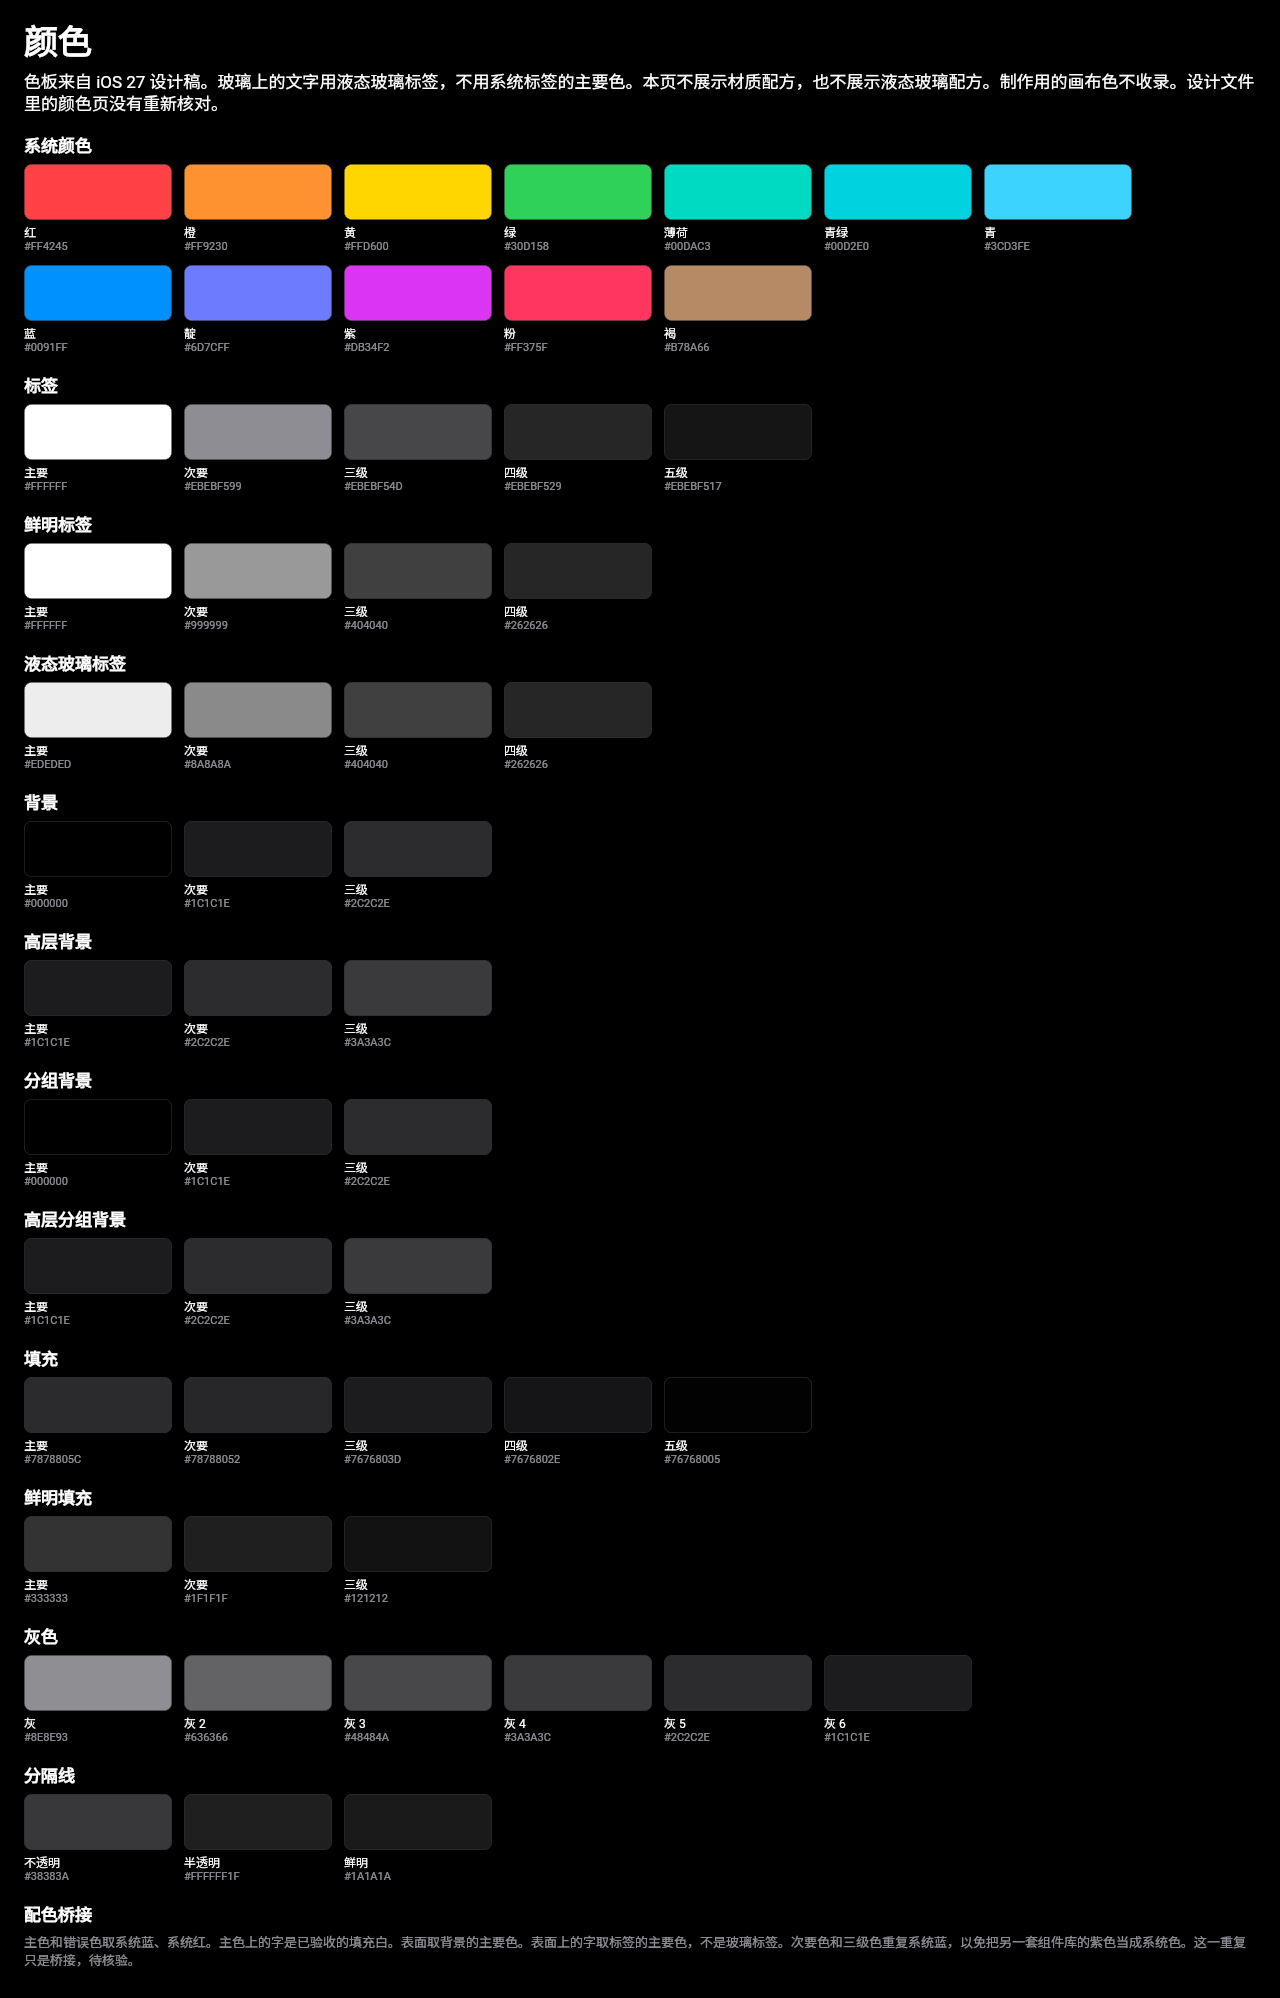
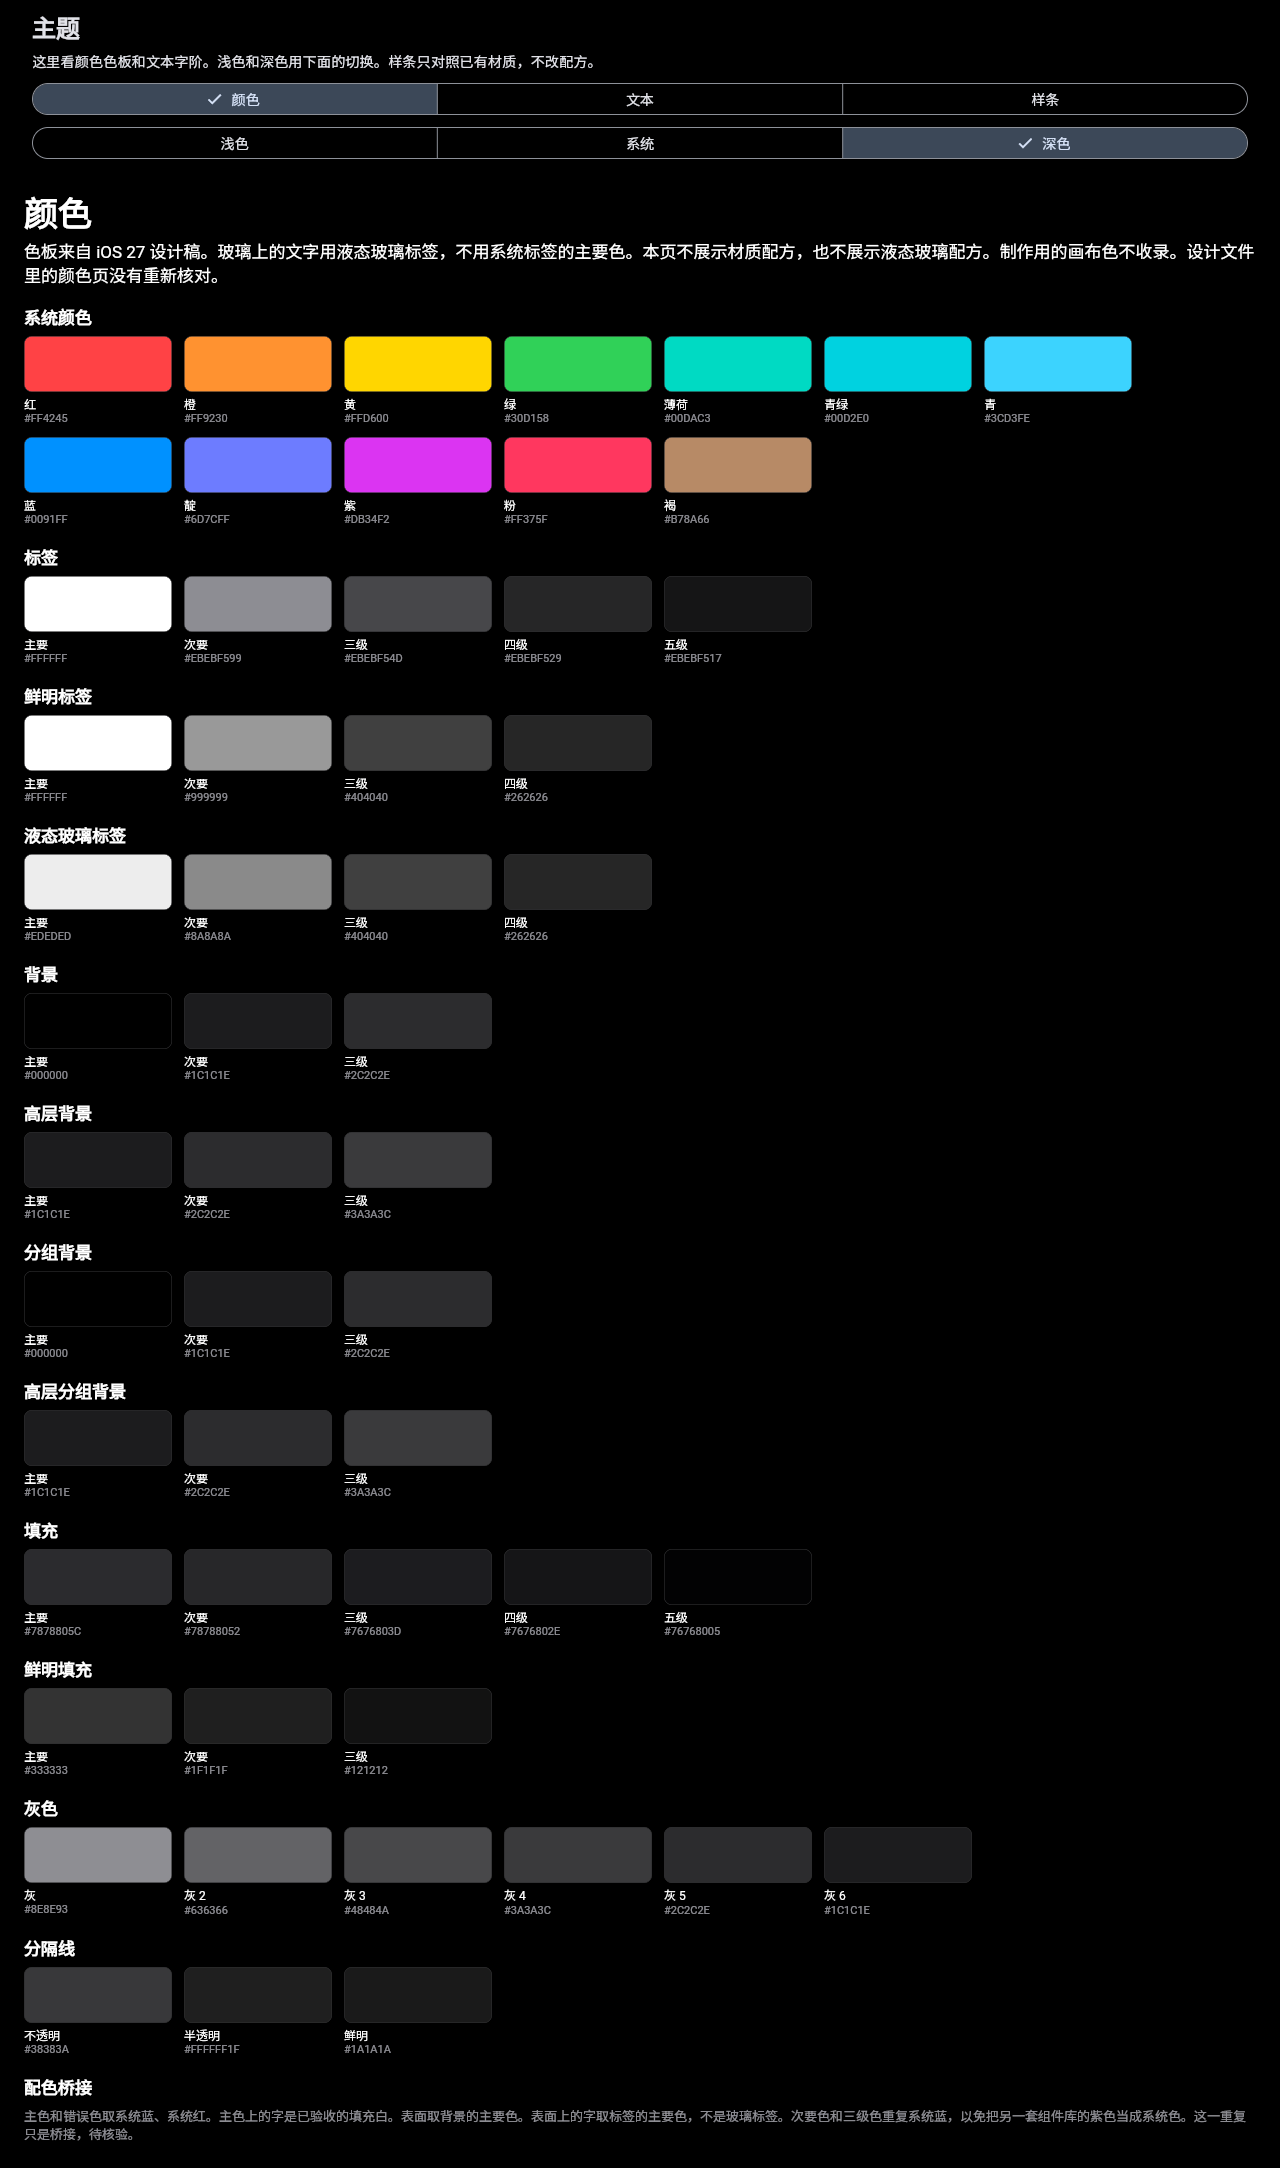
Show color swatches and text styles from the Themes page.
The main example nav item is 主题. It opens the Chinese color grid
by default, and the Large text specimens from the 文本 segment.
Light and dark stay on that page. Token values are unchanged.

Changed region(s): [[0.0, 0.0, 0.9688, 0.993], [0.5, 0.7137, 0.5625, 0.7758]]

diff --git a/example/lib/pages/themes_page.dart b/example/lib/pages/themes_page.dart
@@ -1,69 +1,128 @@
 import 'package:material_ui/material_ui.dart';
 import 'package:lingyun_ui_flutter/lingyun_ui_flutter.dart';
 
-class ThemesPage extends StatelessWidget {
+import 'colors_page.dart';
+import 'text_styles_page.dart';
+
+/// Which specimen the Themes gallery is showing.
+enum ThemesPanel { colors, text, samples }
+
+/// Main-gallery Themes page.
+///
+/// The color swatches and Large text specimens are the default content.
+/// Light / dark uses the gallery [ThemeMode]. The sample strip keeps the
+/// existing Materials and Glass widgets; only its labels change.
+class ThemesPage extends StatefulWidget {
   const ThemesPage({
     super.key,
     required this.themeMode,
     required this.onThemeModeChanged,
+    this.initialPanel = ThemesPanel.colors,
   });
 
   final ThemeMode themeMode;
   final ValueChanged<ThemeMode> onThemeModeChanged;
+  final ThemesPanel initialPanel;
+
+  @override
+  State<ThemesPage> createState() => _ThemesPageState();
+}
+
+class _ThemesPageState extends State<ThemesPage> {
+  late ThemesPanel _panel = widget.initialPanel;
+
+  @override
+  void didUpdateWidget(ThemesPage oldWidget) {
+    super.didUpdateWidget(oldWidget);
+    if (oldWidget.initialPanel != widget.initialPanel) {
+      _panel = widget.initialPanel;
+    }
+  }
 
   @override
   Widget build(BuildContext context) {
     final isDark = Theme.of(context).brightness == Brightness.dark;
     final textTheme = Theme.of(context).textTheme;
-    return ListView(
-      padding: LingyunLayout.layoutMarginOf(context),
+    final margin = LingyunLayout.layoutMarginOf(context);
+    return Column(
+      crossAxisAlignment: CrossAxisAlignment.stretch,
       children: [
-        Text(
-          'Themes',
-          key: const Key('themes-title'),
-          style: textTheme.headlineSmall?.copyWith(fontWeight: FontWeight.w800),
-        ),
-        const SizedBox(height: 8),
-        Text(
-          'Light and dark recipes for both systems. Materials fills and '
-          'Liquid Glass styles each have Light / Dark. Same APIs on every platform.',
-          style: textTheme.bodyMedium,
-        ),
-        const SizedBox(height: 20),
-        GlassCard(
+        Padding(
+          padding: margin.copyWith(bottom: 8),
           child: Column(
+            crossAxisAlignment: CrossAxisAlignment.stretch,
             children: [
-              SwitchListTile(
-                contentPadding: EdgeInsets.zero,
-                title: const Text('Dark mode'),
-                subtitle: Text(isDark ? 'Dark tokens' : 'Light tokens'),
-                value: isDark,
-                onChanged: (v) =>
-                    onThemeModeChanged(v ? ThemeMode.dark : ThemeMode.light),
+              Text(
+                '主题',
+                key: const Key('themes-title'),
+                style: textTheme.headlineSmall?.copyWith(
+                  fontWeight: FontWeight.w800,
+                ),
               ),
-              SegmentedButton<ThemeMode>(
+              const SizedBox(height: 8),
+              Text(
+                '这里看颜色色板和文本字阶。浅色和深色用下面的切换。样条只对照已有材质，不改配方。',
+                style: textTheme.bodyMedium,
+              ),
+              const SizedBox(height: 12),
+              SegmentedButton<ThemesPanel>(
                 segments: const [
-                  ButtonSegment(value: ThemeMode.light, label: Text('Light')),
-                  ButtonSegment(value: ThemeMode.system, label: Text('System')),
-                  ButtonSegment(value: ThemeMode.dark, label: Text('Dark')),
+                  ButtonSegment(value: ThemesPanel.colors, label: Text('颜色')),
+                  ButtonSegment(value: ThemesPanel.text, label: Text('文本')),
+                  ButtonSegment(value: ThemesPanel.samples, label: Text('样条')),
                 ],
-                selected: {themeMode},
-                onSelectionChanged: (set) => onThemeModeChanged(set.first),
+                selected: {_panel},
+                onSelectionChanged: (set) => setState(() => _panel = set.first),
+              ),
+              const SizedBox(height: 12),
+              SegmentedButton<ThemeMode>(
+                key: const Key('themes-brightness'),
+                segments: const [
+                  ButtonSegment(value: ThemeMode.light, label: Text('浅色')),
+                  ButtonSegment(value: ThemeMode.system, label: Text('系统')),
+                  ButtonSegment(value: ThemeMode.dark, label: Text('深色')),
+                ],
+                selected: {widget.themeMode},
+                onSelectionChanged: (set) =>
+                    widget.onThemeModeChanged(set.first),
               ),
             ],
           ),
         ),
-        const SizedBox(height: 16),
+        Expanded(
+          child: LingyunTheme(
+            brightness: isDark ? Brightness.dark : Brightness.light,
+            child: switch (_panel) {
+              ThemesPanel.colors => const ColorsPage(),
+              ThemesPanel.text => const TextStylesPage(),
+              ThemesPanel.samples => _SampleStrip(isDark: isDark),
+            },
+          ),
+        ),
+      ],
+    );
+  }
+}
+
+class _SampleStrip extends StatelessWidget {
+  const _SampleStrip({required this.isDark});
+
+  final bool isDark;
+
+  @override
+  Widget build(BuildContext context) {
+    final textTheme = Theme.of(context).textTheme;
+    final tone = isDark ? '深色' : '浅色';
+    return ListView(
+      padding: LingyunLayout.layoutMarginOf(context),
+      children: [
         Row(
           children: [
             Expanded(
               child: GlassSurface(
                 material: MaterialTier.thin,
                 padding: const EdgeInsets.all(16),
-                child: Text(
-                  isDark ? 'Dark · Materials Thin' : 'Light · Materials Thin',
-                  style: textTheme.titleMedium,
-                ),
+                child: Text('$tone · 薄材质', style: textTheme.titleMedium),
               ),
             ),
             const SizedBox(width: 12),
@@ -71,10 +130,7 @@ class ThemesPage extends StatelessWidget {
               child: GlassSurface(
                 material: MaterialTier.thick,
                 padding: const EdgeInsets.all(16),
-                child: Text(
-                  isDark ? 'Dark · Materials Thick' : 'Light · Materials Thick',
-                  style: textTheme.titleMedium,
-                ),
+                child: Text('$tone · 厚材质', style: textTheme.titleMedium),
               ),
             ),
           ],
@@ -82,10 +138,7 @@ class ThemesPage extends StatelessWidget {
         const SizedBox(height: 16),
         Align(
           alignment: Alignment.centerLeft,
-          child: GlassButton.label(
-            label: isDark ? 'Dark · Regular Small' : 'Light · Regular Small',
-            onPressed: () {},
-          ),
+          child: GlassButton.label(label: '$tone · 常规小号', onPressed: () {}),
         ),
       ],
     );

diff --git a/example/lib/main.dart b/example/lib/main.dart
@@ -28,6 +28,7 @@ class _LingyunGlassDemoAppState extends State<LingyunGlassDemoApp> {
   bool _reduceMotion = false;
   bool _highContrast = false;
   int _index = 0;
+  ThemesPanel _themesPanel = ThemesPanel.colors;
   bool _bare = false;
   GalleryBackground _background = GalleryBackground.canvas;
 
@@ -40,12 +41,18 @@ class _LingyunGlassDemoAppState extends State<LingyunGlassDemoApp> {
     _index = switch (page) {
       'glass' => 1,
       'tabs' => 2,
-      'themes' => 3,
+      'themes' || 'colors' || 'text' => 3,
       'layout' => 4,
       'access' => 5,
       'native' => 6,
       'alerts' => 7,
       _ => 0,
+    };
+    final panel = page == 'text' ? 'text' : Uri.base.queryParameters['panel'];
+    _themesPanel = switch (panel) {
+      'text' => ThemesPanel.text,
+      'samples' => ThemesPanel.samples,
+      _ => ThemesPanel.colors,
     };
     _themeMode = switch (Uri.base.queryParameters['theme']) {
       'dark' => ThemeMode.dark,
@@ -80,6 +87,7 @@ class _LingyunGlassDemoAppState extends State<LingyunGlassDemoApp> {
           highContrast: _highContrast,
           child: DemoHome(
             index: _index,
+            themesPanel: _themesPanel,
             bare: _bare,
             background: _background,
             themeMode: _themeMode,
@@ -104,6 +112,7 @@ class DemoHome extends StatelessWidget {
   const DemoHome({
     super.key,
     required this.index,
+    required this.themesPanel,
     required this.bare,
     required this.background,
     required this.themeMode,
@@ -119,6 +128,7 @@ class DemoHome extends StatelessWidget {
   });
 
   final int index;
+  final ThemesPanel themesPanel;
   final bool bare;
   final GalleryBackground background;
   final ThemeMode themeMode;
@@ -151,7 +161,7 @@ class DemoHome extends StatelessWidget {
     NavigationDestination(
       icon: Icon(Icons.brightness_6_outlined),
       selectedIcon: Icon(Icons.brightness_6),
-      label: 'Themes',
+      label: '主题',
     ),
     NavigationDestination(
       icon: Icon(Icons.devices_outlined),
@@ -181,7 +191,11 @@ class DemoHome extends StatelessWidget {
       const MaterialsPage(),
       const GlassPage(),
       const TabBarPage(),
-      ThemesPage(themeMode: themeMode, onThemeModeChanged: onThemeModeChanged),
+      ThemesPage(
+        themeMode: themeMode,
+        onThemeModeChanged: onThemeModeChanged,
+        initialPanel: themesPanel,
+      ),
       const LayoutPage(),
       AccessibilityPage(
         reduceTransparency: reduceTransparency,

diff --git a/example/test/widget_test.dart b/example/test/widget_test.dart
@@ -221,4 +221,35 @@ void main() {
     );
     expect(find.byKey(const Key('text-role-caption1')), findsOneWidget);
   });
+
+  testWidgets('themes page opens color swatches and text styles', (
+    tester,
+  ) async {
+    tester.view.devicePixelRatio = 1;
+    tester.view.physicalSize = const Size(1280, 900);
+    addTearDown(tester.view.resetDevicePixelRatio);
+    addTearDown(tester.view.resetPhysicalSize);
+    await tester.pumpWidget(const LingyunGlassDemoApp());
+    await tester.tap(find.text('主题').last);
+    await tester.pumpAndSettle();
+
+    expect(find.byKey(const Key('themes-title')), findsOneWidget);
+    expect(find.byKey(const Key('colors-title')), findsOneWidget);
+    expect(find.text('系统颜色'), findsOneWidget);
+    expect(find.text('液态玻璃标签'), findsOneWidget);
+    expect(find.text('#0088FF'), findsWidgets);
+    expect(find.text('Themes'), findsNothing);
+    expect(find.text('Dark mode'), findsNothing);
+    expect(find.text('Materials Thin'), findsNothing);
+
+    await tester.tap(find.text('深色').last);
+    await tester.pumpAndSettle();
+    expect(find.text('#0091FF'), findsWidgets);
+
+    await tester.tap(find.text('文本').last);
+    await tester.pumpAndSettle();
+    expect(find.byKey(const Key('text-styles-title')), findsOneWidget);
+    expect(find.text('凌云界面'), findsWidgets);
+    expect(find.textContaining('大标题'), findsWidgets);
+  });
 }

diff --git a/docs/screenshots/README.md b/docs/screenshots/README.md
@@ -51,17 +51,17 @@ set PAGE_CAPTURE=1&& flutter test test/page_capture_test.dart
 
 Older hinge-helper captures (`layout_phone.png`, `layout_duo_cover.png`, `layout_duo_inner.png`, `layout_ipad.png`, `layout_desktop.png`) predate `LingyunPage`.
 
-颜色和文本样式画廊（页面文案为简体中文，`chrome=0`，没有顶栏切换）：
+颜色和文本样式在主画廊「主题」里（文案为简体中文，`chrome=0`，没有侧栏）：
 
-- `colors_light.png` — 颜色页，浅色，设计画布 `#D1D1D6`，1280×1997。色块上的细边是分隔线的不透明色，用来看清浅色块，不是新的圆角或模糊 token。
-- `colors_dark.png` — 同一页，深色，设计画布 `#000000`，1280×1998。
-- `text_light.png` — 文本样式页，浅色，设计画布 `#D1D1D6`，1280×1202。只展示大号内容尺寸。系统字体没有打进安装包。
-- `text_dark.png` — 同一页，深色，设计画布 `#000000`，1280×1202。
+- `colors_light.png` — 主题页的颜色色板，浅色，设计画布 `#D1D1D6`，1280×2168。色块上的细边是分隔线的不透明色，用来看清浅色块，不是新的圆角或模糊 token。
+- `colors_dark.png` — 同一色板，深色，设计画布 `#000000`，1280×2168。
+- `text_light.png` — 主题页的文本字阶，浅色，设计画布 `#D1D1D6`，1280×1375。只展示大号内容尺寸。系统字体没有打进安装包。
+- `text_dark.png` — 同一字阶，深色，设计画布 `#000000`，1280×1375。
 
 重新生成（在 `example/` 里，Windows 的 cmd 或 PowerShell 同样可用）：
 
 ```bash
-flutter run -d chrome -t lib/foundation_app.dart
+flutter run -d chrome
 ```
 
-打开 `http://localhost:<端口>/?page=colors&theme=light&chrome=0`，以及 `theme=dark`。文本页把 `page` 换成 `text`。
+打开 `http://localhost:<端口>/?page=colors&theme=light&chrome=0`，以及 `theme=dark`。文本页把 `page` 换成 `text`。导航里点「主题」，默认就是颜色色板，再点「文本」。

diff --git a/README.md b/README.md
@@ -212,7 +212,7 @@ flutter run -d ios
 
 Pages: **Materials** (Ultrathin / Thin / Regular / Thick + 待核验 radii), **Glass** (Clear / Regular S·M·L / Dock / Widget Glass + `GlassButton` sizes Small / Medium / Large, states Default / Pressed / Disabled, variants Glass, Clear, Destructive, Glass Prominent, Symbol), **Tabs** (`GlassTabBar`: standard edge-to-bottom, floating pill at 3, 4, and 5 items, System Blue selection, tinted whole bar; light/dark wallpaper), **Themes** (light / dark), **Layout** (`LingyunPage` compact / compact-bounds / regular / division / wide presets + live window), **Access** (reduce transparency / motion / high contrast), **Native** (`?page=native`, iOS `LYPage` host), **Alerts** (system `cupertino_ui` dialog: one button, two buttons, destructive, title + message, message only; demo copy is Simplified Chinese). The default backdrop is a flat design canvas (light `#D1D1D6`, dark `#000000`) so glass can sit next to the Sketch kit. A **Canvas** chip on every page switches that canvas, the previous muted wash, a nature scene, abstract color, and a busy UI pattern.
 
-Colors and text styles have their own Cupertino gallery. Visible copy on that gallery is Simplified Chinese. The older shell is unchanged:
+Colors and text styles are on the main gallery **主题** destination (Simplified Chinese). Open it from the nav, or with `?page=themes` (color swatches), `?page=colors`, or `?page=text` (Large text specimens). Add `&theme=dark` and `&chrome=0`. The same pages also have a Cupertino entry:
 
 ```bash
 cd example

diff --git a/CHANGELOG.md b/CHANGELOG.md
@@ -15,6 +15,7 @@ All notable changes to this project will be documented in this file.
 - `LingyunColors` — Sketch iOS 27 color variables (system colors, labels, liquid-glass labels, backgrounds, fills, grays, separators) for light and dark. Wired through `LingyunTheme` (`cupertino_ui`) and `LingyunMaterialTheme` (`ColorScheme` / `TextTheme` on `material_ui` only).
 - `LingyunTextStyles` — Sketch text styles at the Large content size, plus loose / tight leading. SF Pro is not bundled. Dynamic Type ramps other than Large stay unverified.
 - Example foundation gallery (`flutter run -t lib/foundation_app.dart`). The page copy is Simplified Chinese.
+- Main example **主题** page (nav label, not `Themes`) shows the same color swatches and Large text specimens, with 浅色 / 深色. `?page=themes`, `?page=colors`, or `?page=text`.
 
 ### Notes
 

diff --git a/example/README.md b/example/README.md
@@ -12,6 +12,9 @@ Layout (`LingyunPage` compact / regular / wide bounds), Accessibility,
 [`docs/PAGE.md`](../docs/PAGE.md).
 **Alerts** (`?page=alerts`): system `cupertino_ui` dialog, not Liquid Glass.
 Demo titles, buttons, and messages on that page are Simplified Chinese.
+**主题** (`?page=themes` or the nav item): color swatches by default, Large
+text specimens with `?page=text` or the 文本 segment. Light / dark is
+浅色 / 深色. Titles, buttons, group names, and samples are Simplified Chinese.
 
 Default backdrop is the design canvas (light `#D1D1D6`, dark `#000000`).
 The **Canvas** chip on every page also selects muted wash, nature,
